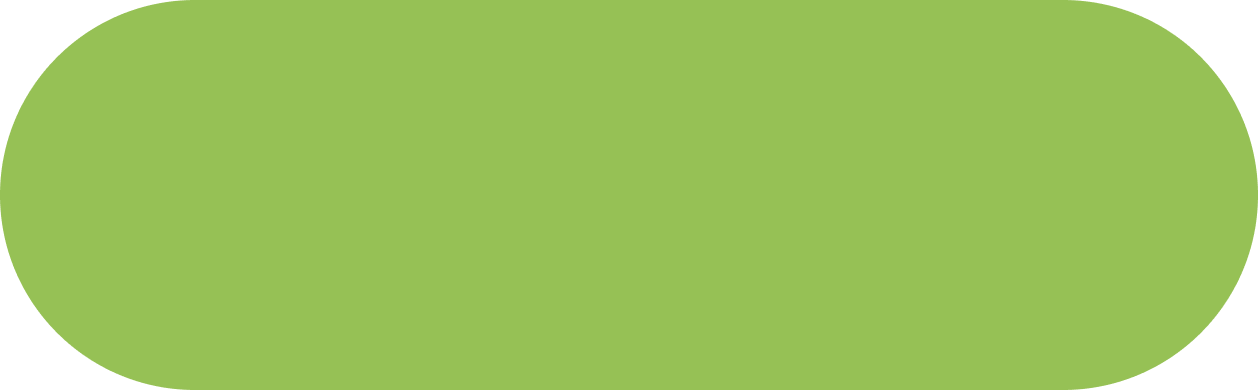
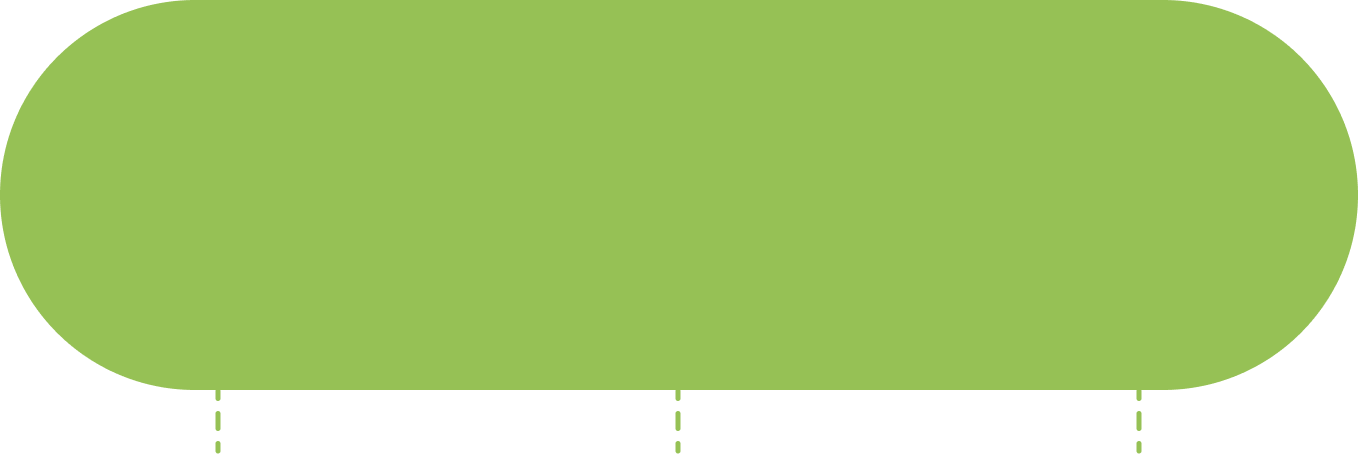
up

diff --git a/style.css b/style.css
@@ -64,7 +64,7 @@ header {
 
 .logo img {
     width: 50px;
-    height: 50px;
+    height: auto;
     margin-right: 10px;
 }
 
@@ -397,7 +397,7 @@ header {
 .sub {
     position: relative; /* 부모 요소에 상대 위치 설정 */
     margin: 0;
-    margin-top: 50px;
+    margin-top: 45px;
     margin-bottom: 50px;
     margin-left: -30px; /* Move slightly to the left */
     width: 100%;
@@ -417,7 +417,7 @@ header {
 .circles-container {
     display: flex;
     position: absolute; /* 절대 위치 */
-    top: 32%; /* Y축 위치 조정 (위로 올리기) */
+    top: 33%; /* Y축 위치 조정 (위로 올리기) */
     left: 53%; /* X축 중앙 정렬 */
     transform: translate(-50%, -50%); /* 가운데 정렬 */
     z-index: 3; /* 원들이 배경 이미지 위에 위치하도록 설정 */
@@ -441,8 +441,8 @@ header {
 
 
 .circlebg {
-    width: 250px; 
-    height: 250px;
+    width: 260px; 
+    height: 260px;
     background-color: #eaeaea; 
     border-radius: 50%;
     display: flex; 
@@ -466,7 +466,7 @@ header {
     display: flex;
     justify-content: center;
     gap: 210px;
-    margin-top: 120px;
+    margin-top: 20px;
     transform: translateX(60px); /* 컨테이너 전체를 오른쪽으로 이동 */
 }
 
@@ -1053,14 +1053,14 @@ a {
 #servicekeyword h2 {
     font-size: 1.2em; /* 원하는 크기로 설정 */
     color: #333; /* 원하는 색으로 설정 */
-    margin-left: 80px; /* 오른쪽으로 이동 (조정 가능) */
+   
 }
 
 #servicekeyword h3 {
     font-size: 1.5em; /* 원하는 크기로 설정 */
     text-align: center;
     color: #3E7443; /* 원하는 색으로 설정 */
-    margin-left: 80px; /* 오른쪽으로 이동 (조정 가능) */
+   
 }
 
         #servicekeyword h5 {
@@ -1177,7 +1177,7 @@ a {
         .circles-container1 {
             display: flex;
             position: absolute; /* 절대 위치 */
-            top: 50%; /* Y축 위치 조정 (위로 올리기) */
+            top: 43%; /* Y축 위치 조정 (위로 올리기) */
             left: 53%; /* X축 중앙 정렬 */
             transform: translate(-50%, -50%); /* 가운데 정렬 */
             z-index: 2; /* 원들이 배경 이미지 위에 위치하도록 설정 */
@@ -1815,49 +1815,10 @@ margin-top: 40%;
     width: 100%;
     max-width: 500px;
     height: auto;
-    margin-top: 400px;
+    margin-top: 200px;
     margin-bottom: 300px;
 }
 
-.characterimg img {
-    position: absolute;
-    top: 50%;
-    left: 55%;
-    transform: translate(-50%, -50%);
-    width: 100%;
-    max-width: 800px;
-    height: auto;
-    opacity: 0;
-    animation-duration: 3s; /* 애니메이션 속도 조절 */
-    animation-iteration-count: infinite;
-}
-
-.frame1 {
-    animation-name: frame1Visible;
-}
-
-.frame2 {
-    animation-name: frame2Visible;
-    width: 90%; /* 두 번째 이미지를 살짝 작게 설정 */
-}
-
-@keyframes frame1Visible {
-    0%, 45% { 
-        opacity: 1; /* frame1이 표시되는 기간 */
-    }
-    50%, 100% { 
-        opacity: 0; /* frame1이 사라지는 기간 */
-    }
-}
-
-@keyframes frame2Visible {
-    0%, 45% { 
-        opacity: 0; /* frame2가 숨겨져 있는 기간 */
-    }
-    50%, 100% { 
-        opacity: 1; /* frame2가 표시되는 기간 */
-    }
-}
 
 
 

diff --git a/index.html b/index.html
@@ -74,7 +74,7 @@
    
     
     <div class="sub">
-        <img src="img/Frame34043.png" alt="플마 배경 이미지">
+        <img src="img/Frame_34043.png" alt="플마 배경 이미지">
         <div class="circles-container">
             <div class="circlebg">
                 <img src="img/image1.png">
@@ -86,12 +86,14 @@
                 <img src="img/image3.png">
             </div>
         </div>
-        
-        <div class="line">
+       <!--
+         <div class="line">
             <img src="img/line.png">
             <img src="img/line.png">
             <img src="img/line.png">
         </div>
+        --> 
+       
         
         <div class="subtext-container">
             <p class="move-left">Plant</p>
@@ -228,12 +230,14 @@
                 </div>
             </div>
         </div>
-
-        <div class="line1">
+<!--
+  <div class="line1">
             <img src="img/line.png">
             <img src="img/line.png">
             <img src="img/line.png">
-        </div>
+        </div>    
+-->
+      
 
         <div class="servicekeyword-container">
             <div class="keyword1">
@@ -623,8 +627,8 @@
     <section id="character">
         <h2>플마와 함께<p>식물 키우기로 계획 쉽고 재밌게 실천하자!</p></h2>
         <div class="characterimg">
-            <img src="img/캐릭터 움직임.png" class="frame1">
-            <img src="img/캐릭터 움직임1.png" class="frame2">
+            <img src="img/알파파캐릭터GIF.gif">
+          
         </div>
 
         
